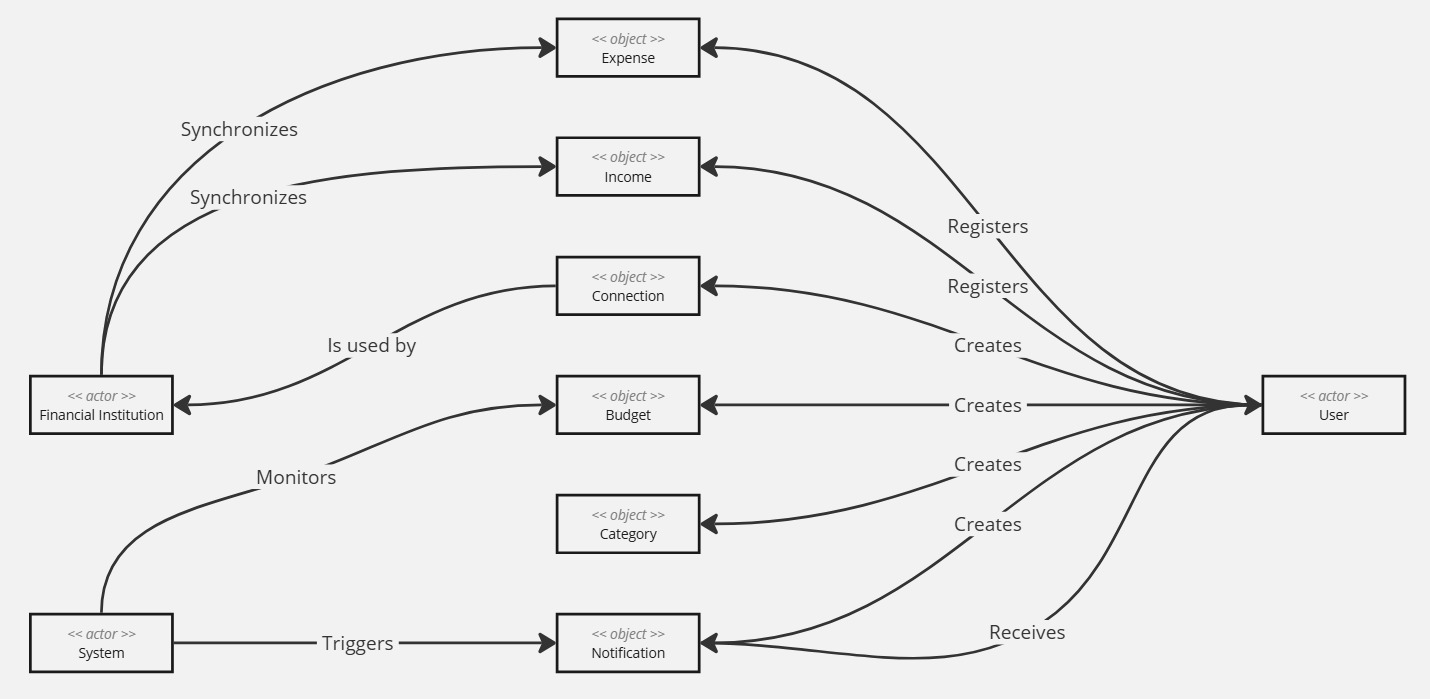
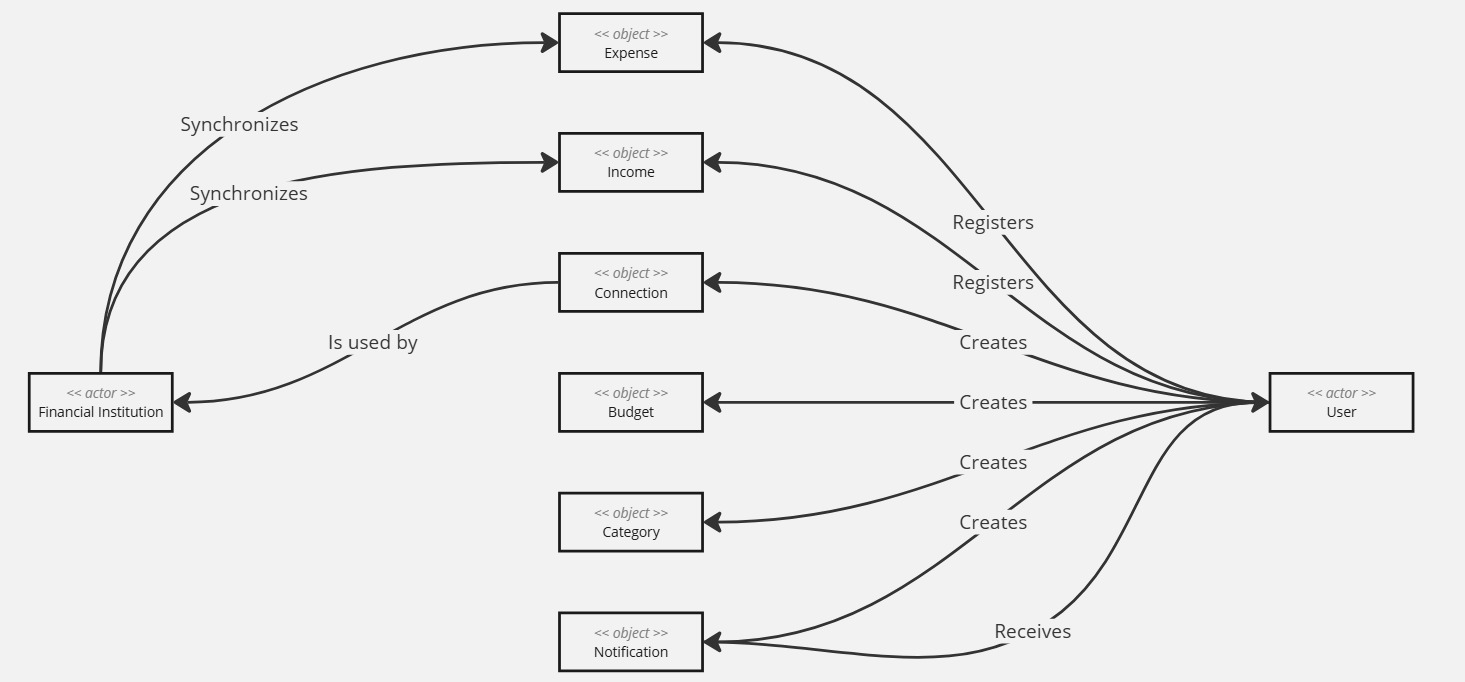
functional requirements

diff --git a/docs/README.md b/docs/README.md
@@ -18,16 +18,11 @@ blabla
 3. **Investors** - People that invested their money in development of that application with in order to earn money in case of its success.
 
 ## Actors
-Application for budget management doesn't require any administrators for user management. Individuals create and manege their accounts by themselves. Due to that, only two actors were distinguished.
+The Budget App primarily interacts with two main actors: the User and the Financial Institution. This distinction is made to simplify the system's design and focus on the core interactions necessary for managing personal finances.
 
 **User** is a primary actor who interact with application. User has the following attributes:
 - email
 - password
-
-**System** is hidden, internal actor that performs automated tasks within application. It has following attributes:
-- task_id
-- task_type
-- status
 
 **Financial Institution** is an actor that interacts with the application to provide automated synchronization of income and expenses. It has the following attributes:
 - id - unique identifier of the financial institution
@@ -84,6 +79,60 @@ Application for budget management doesn't require any administrators for user ma
 
 ## Functional requirements
 
+### 1. User authentication
+As a user, I want to create and manage an account, so that my personal information is securely stored and can't be anyone unauthorized. 
 
+**Acceptance criteria:**
+- User can register and login with an email and password.
+- Email and hashed password is stored in database.
+
+### 2. Manual management of Incomes and Expenses
+As a user, I want to manually enter my income and expenses using simple and intuitive UI, so that I am able to track my finances. 
+
+**Acceptance Criteria:**
+- User can create incomes and expenses using a form
+    - expense is described by summary, transaction date, amount and category
+    - income is described by summary, transaction date, amount and source
+- All data is stored inside database
+- Data is associated with user that created it 
+
+### 3. Automated synchronization with Financial Institutions
+As a user, I want to create connection to financial institution in which I have bank accounts, so my expenses and incomes are automatically registered in application. Multiple connections should be able per user. 
+
+**Acceptance Criteria:**
+- User can connect to all financial institutions available in Poland
+- Connection should be established using token that is associated to user and generated during connection creation
+- Connection should pull all expenses and incomes events from its source
+
+
+### 4. Visualization
+As a user, I want to have a possibility to check date-limited charts to analyze my finances. Those charts should show expense and income comparison, and expenses grouped in categories.
+
+**Acceptance Criteria:**
+- Application generate charts based on data stored in database
+- User can select a date range for the charts
+
+### 5. Budget Management
+As a user, I should be able to create a budget for a specific time period to manage my expenses within some limit. 
+
+**Acceptance Criteria:**
+- User can create a budget with an amount, period and status
+    - status can be under or exceeded
+- System monitors if sum of expenses exceeded defined limit and changes status based on calculations
+
+### 6. Expenses Categorization
+As a user who wants to effectively manage my personal finances, I need the ability to categorize my expenses. This feature will allow me to group similar expenses together (e.g., groceries, entertainment, utilities).
+
+**Acceptance Criteria:**
+- Users should be able to edit and delete existing categories.
+- Users should be able to change the category of an existing expense.
+- (Optional) The system may provide a set of pre-defined default categories to help users get started (e.g., Food, Transportation, Bills).
+
+### 7. Notifications
+As a user who is actively managing my budget, I need to receive timely notifications when my expenses are approaching or have exceeded a specified percentage of my budget. This will help me stay informed about my spending in real-time and take immediate action to avoid overspending.
+
+**Acceptance Criteria:**
+- The system should automatically monitor expenses against the budget.
+- When expenses reach or exceed the specified threshold, the system should trigger a notification.
 
 ## Non-functional requirements
